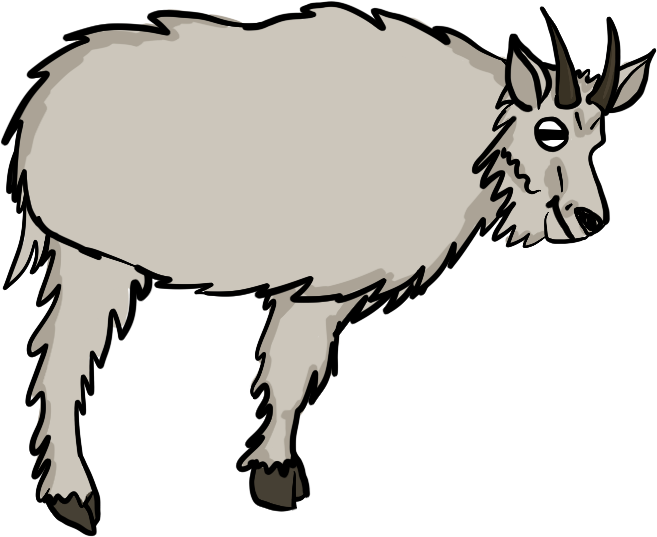
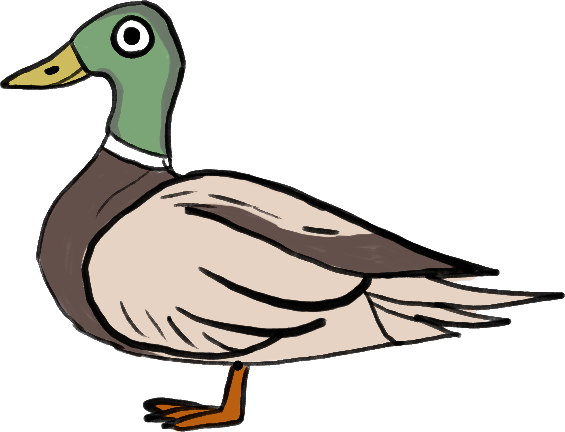
Update site from hellbuddy-source@8c3ea44

diff --git a/index.html b/index.html
@@ -148,7 +148,8 @@
     <p class="fine">Switch any time: right-click your hellbuddy and choose <em>Animal</em>. Every one is hand-drawn in Procreate.</p>
     <ul class="animals">
       <li><img src="hellbender.png" alt="A brown, spotted hellbender salamander"><strong>Hellbuddy</strong><span>the Hellbender</span></li>
-      <li><img src="zaduck.png" alt="A shaggy white mountain goat with black horns"><strong>Zaduck</strong><span>the Mountain Goat</span></li>
+      <li><img src="nanny.png" alt="A shaggy white mountain goat with black horns"><strong>Nanny</strong><span>the Mountain Goat</span></li>
+      <li><img src="zaduck.png" alt="A mallard duck with a green head and a yellow bill"><strong>Zay-duck</strong><span>the Mallard</span></li>
       <li class="soon">More coming soon</li>
     </ul>
   </div>
@@ -220,9 +221,9 @@
       <div class="pack-body">
         <p class="muted">A witch outfit, a cozy scarf, and a ghost sheet for every hellbuddy, plus candy corn and pumpkins to feed them.</p>
         <div class="pack-pics">
-          <img src="halloween-goat-witch.png" alt="Zaduck in a witch hat, cape, and striped socks">
+          <img src="halloween-goat-witch.png" alt="Nanny in a witch hat, cape, and striped socks">
           <img src="halloween-hellbender-scarf.png" alt="The hellbender in an orange plaid scarf">
-          <img src="halloween-goat-ghost.png" alt="Zaduck under a ghost sheet, horns poking through">
+          <img src="halloween-duck-ghost.png" alt="Zay-duck under a ghost sheet, his tail feathers sticking out">
         </div>
         <div class="treats">
           <img src="halloween-candy-corn.png" alt="Candy corn">
@@ -245,7 +246,7 @@
     <a href="https://www.goatcounter.com" target="_blank" rel="noopener">GoatCounter</a>,
     which uses no cookies and doesn't track you. Packs are sold through Gumroad, under
     <a href="https://gumroad.com/privacy" target="_blank" rel="noopener">its privacy policy</a>.</p>
-  <p>Made with love for flat salamanders, loud goats, and whoever comes next.</p>
+  <p>Made with love for flat salamanders, loud goats, waddling ducks, and whoever comes next.</p>
   <p>© 2026 Emily Kauffman. The Hellbuddies app and its drawings are free to use, but not to copy or redistribute.</p>
 </footer>
 <script>
